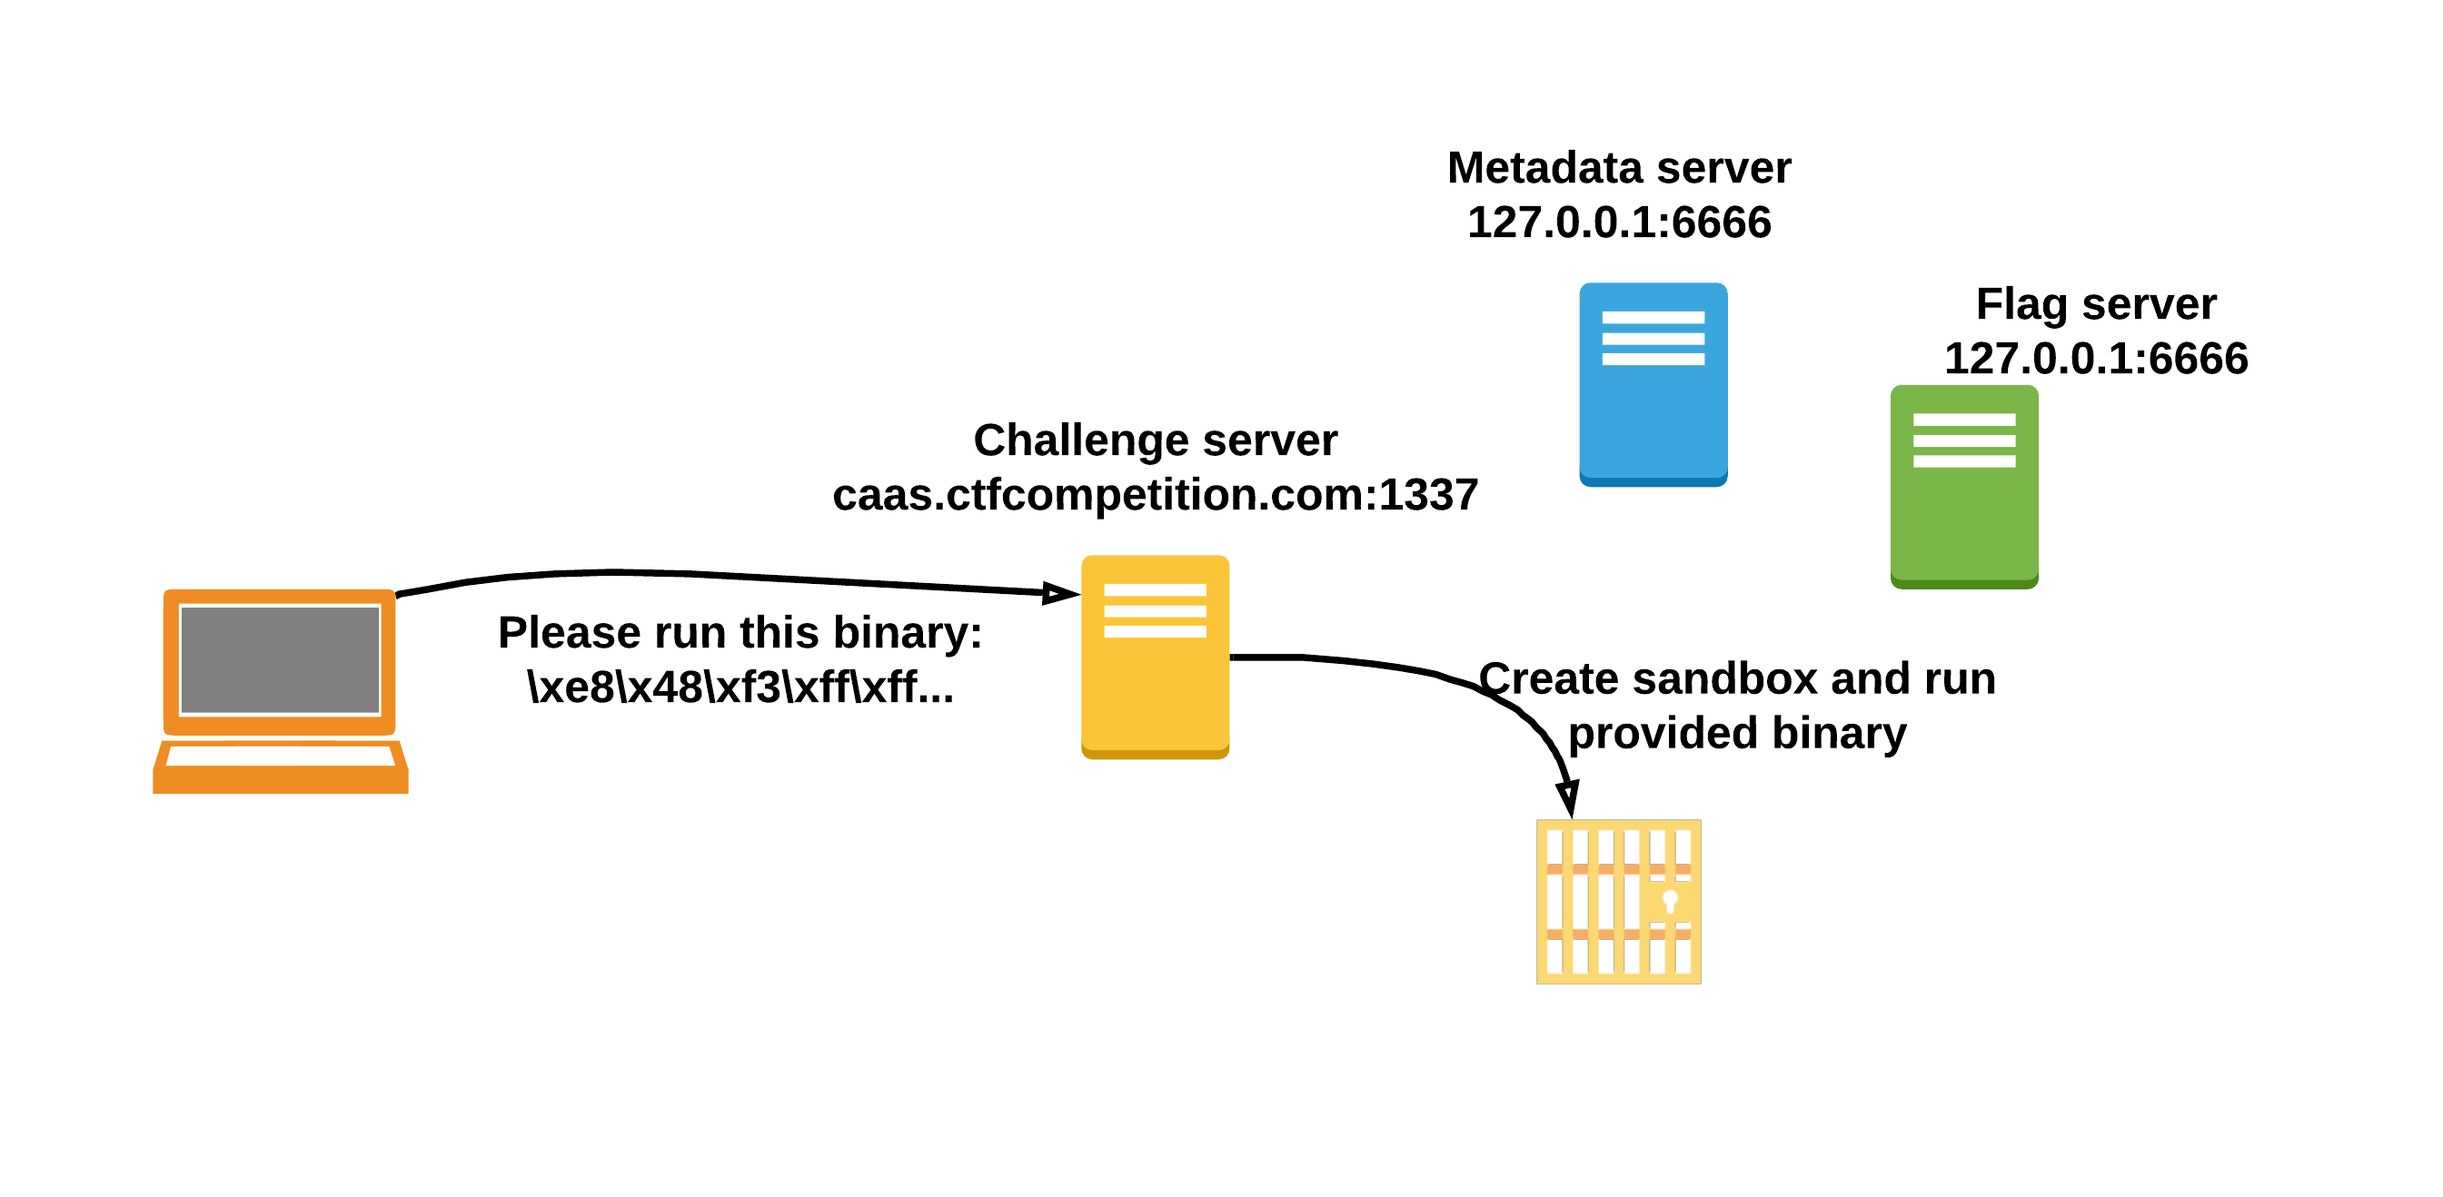
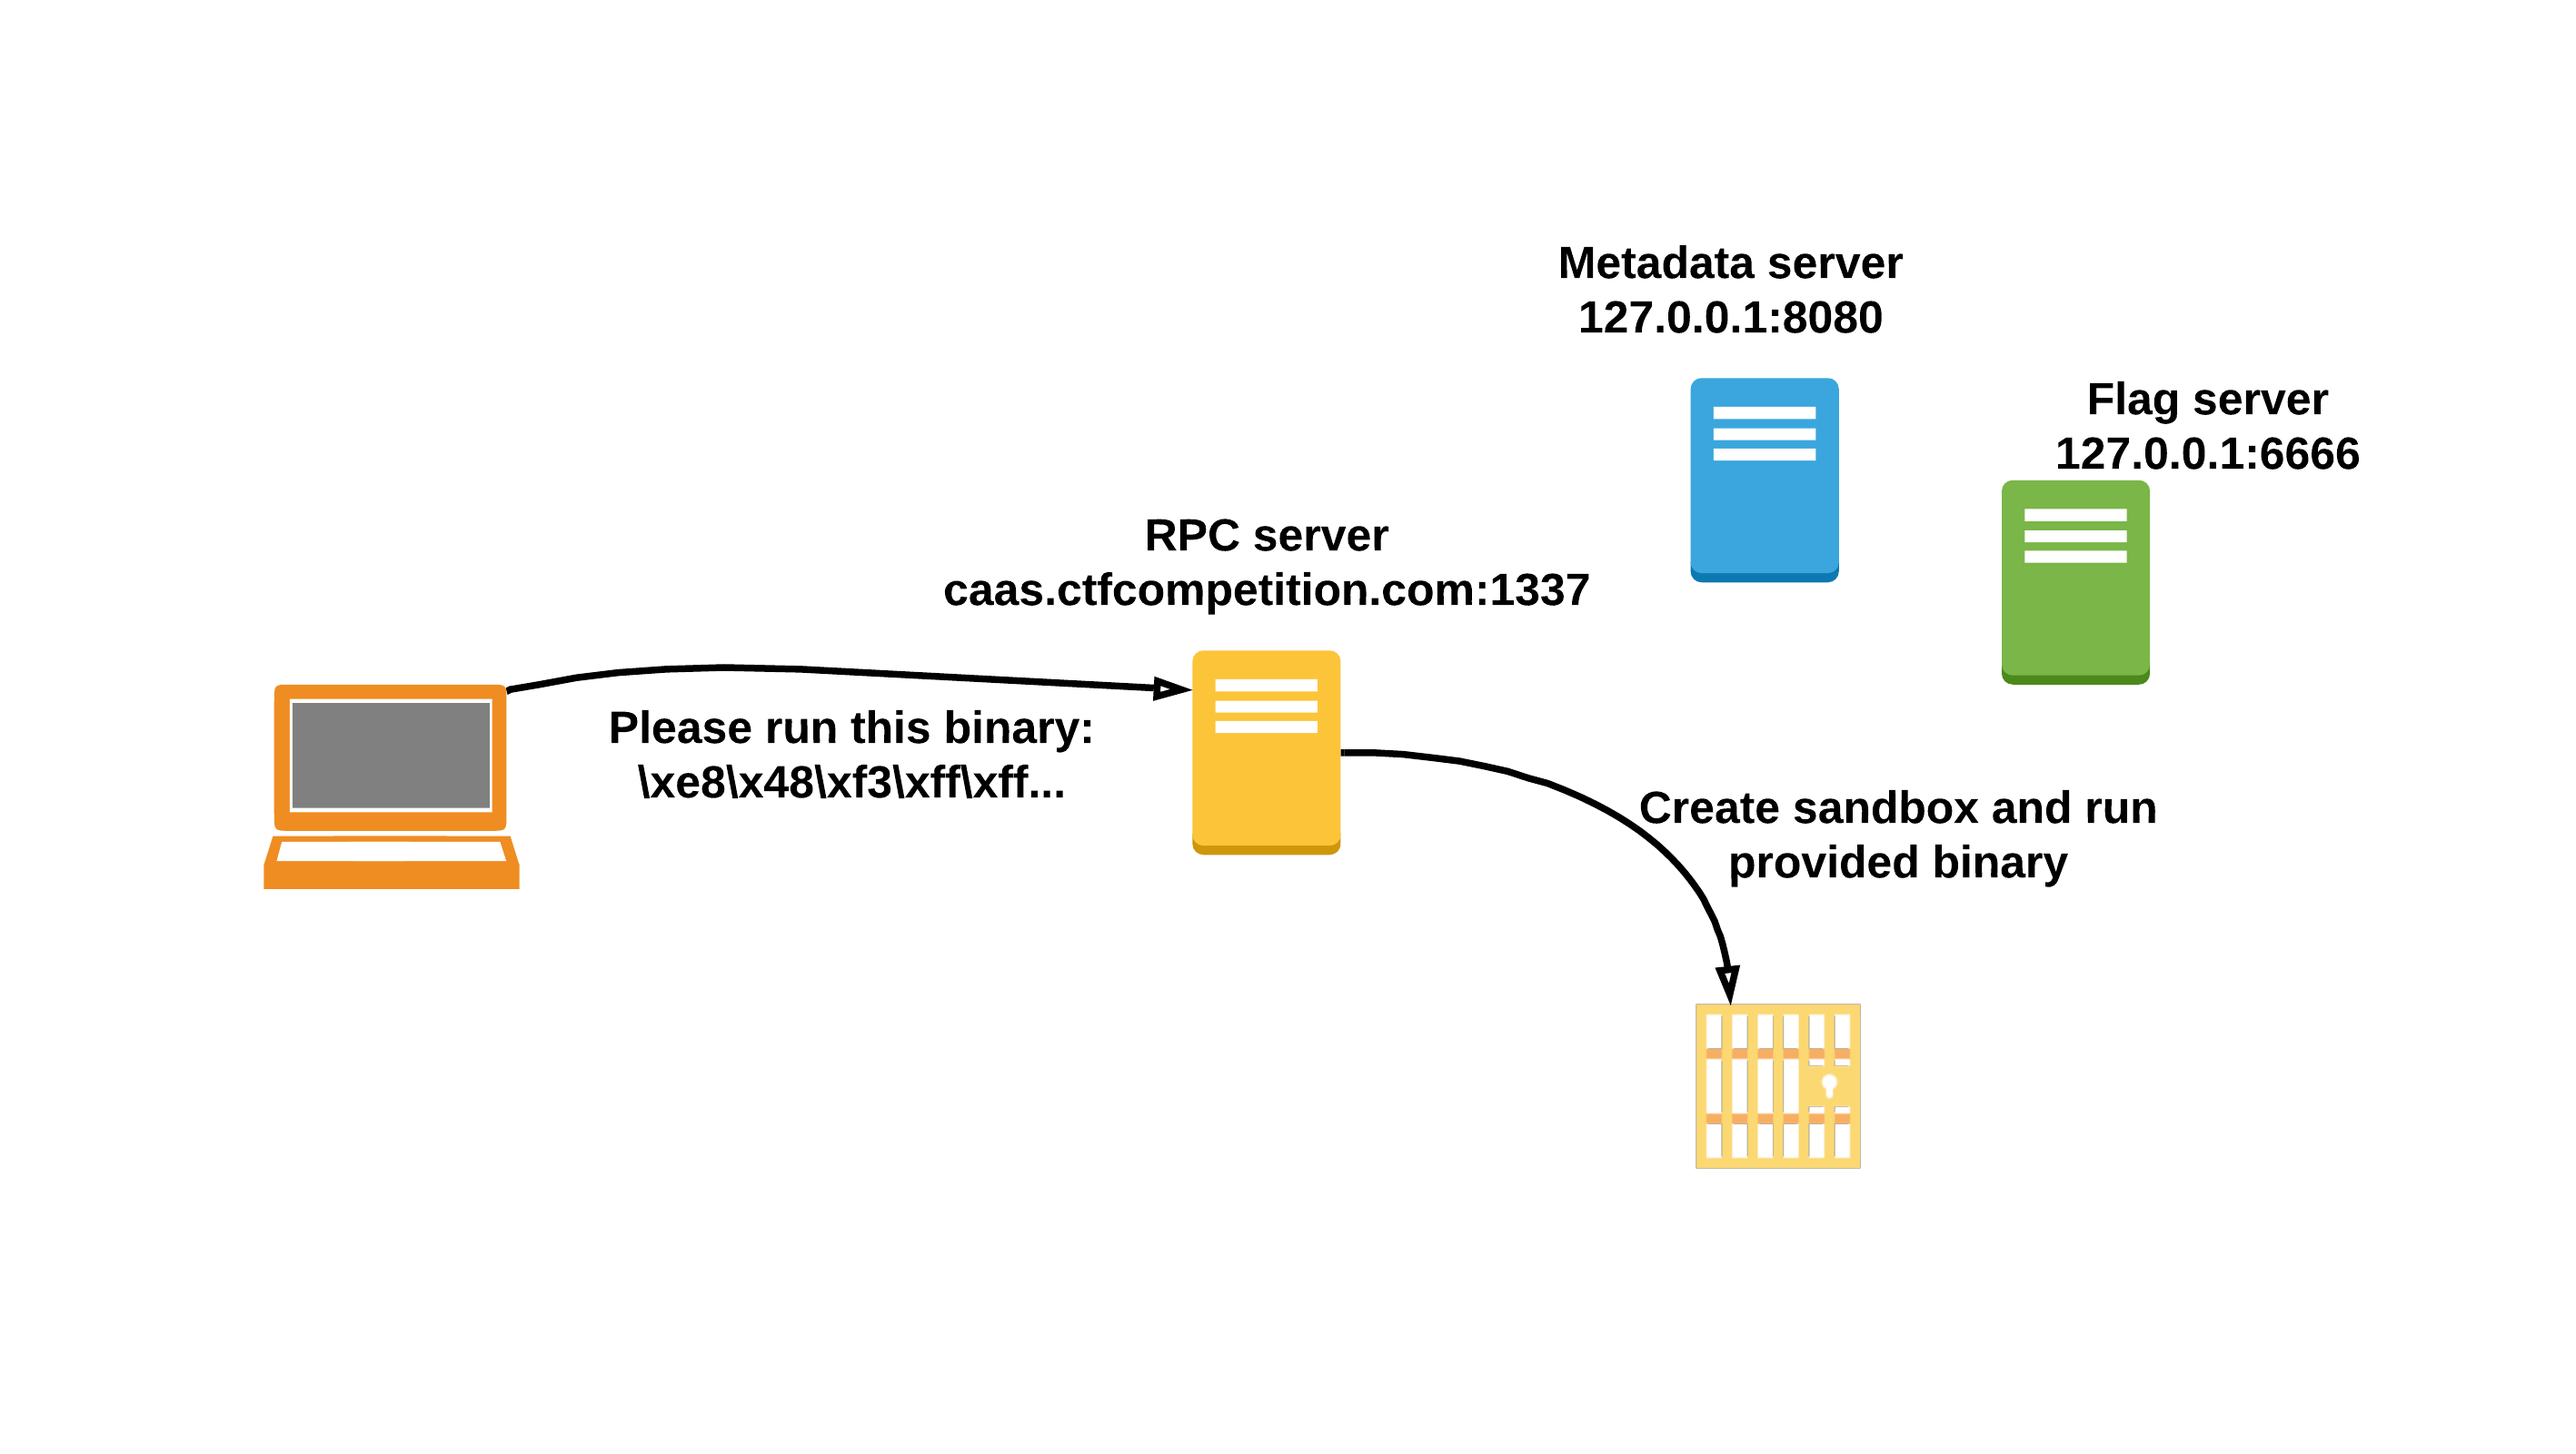
.

Changed region(s): [[0.0625, 0.1244, 0.8434, 0.8399], [0.7497, 0.2178, 0.9372, 0.4977]]

diff --git a/pwn/googlectf2019/sandbox-caas/README.md b/pwn/googlectf2019/sandbox-caas/README.md
@@ -4,6 +4,75 @@ After few hours I gave up and started looking for some other implementations and
 
 
 ## Infrastructure
-As a user we can connect to the challenge server. It will ask us to provide the binary which we want to execute. This binary will be run in a custom sandbox based on linux namespaces, rlimit and seccomp.
+As a user we can connect to the challenge server. It will ask us to provide the binary which we want to execute (shellcode). This binary will be run in a custom sandbox based on linux namespaces, rlimit and seccomp.
 
 ![](img/infra.png)
+
+Moreover we know that on same machine there are two other services running. One listening on localhost:8080 being a metadata server and one listening on localhost:6666 being a flag server.
+
+## Flag Server
+There is nothing tricky about flag server. When client connects to it, it will just send him the flag. So the goal is quite obvious – we need to connect to the Flag Server.
+
+## Metadata Server
+It seems that metadata server havn't been yet finished. When connecting to it, it just responds with 'Not implemented' message.
+
+## RPC Server
+RPC Server is a bridge between the sandboxed process and the rest of the world. They communicate using a pipe (descriptor 100). The sandboxed process can for example ask RPC Server to connect to Metadata Server for him.
+
+## Sandbox
+You might wonder, why sandboxed process needs to ask RPC Server to connect him with Metadata Server. Well, the sandbox is quite restrictive and sandboxed process is placed in new NET_NAMESPACE, meaning he won't see any network interfaces of the host.
+
+Sandbox details:
+i) The process is placed in new new, ipc, cgroups, user, uts, pid, mount namespaces.
+ii) The process has no capabilities.
+iii) The pivot_root was invoked before passing control to our shellcode and so, the process root is in an empty tmpfs folder /tmp/.challenge/. The old root was umounted.
+iv) Seccomp policy allows only: read, write, close, munmap, sched_yield, dup, dup2, nanosleep, connect, accept, recvmsg, bind, exit, exit_group, clone, mmap syscalls.
+iv) The proces memory maps have been unmaped, leaving only the stack and user shellcode.
+
+## API
+Reading through sandbox details it is quite obvious that it is rather decent sandbox and perhaps the weak point is this RPC Server. Let's check it closer.
+The RPC Server works in an infinite loop:
+
+```c
+void Server(pid_t pid, int comms_fd) {
+  Request req;
+  while (true) {
+    Response res;
+    int fd_to_send = -1;
+
+    if (TEMP_FAILURE_RETRY(read(comms_fd, &req, sizeof(req))) != sizeof(req)) {
+      return;
+    }
+
+    // Validate request parameters.
+    if (!ValidateRequest(pid, req)) {
+      fprintf(stderr, "Request validation failed.\n");
+      return;
+    }
+
+    // Parameters good, actually execute the request.
+    if (!ExecuteRequest(pid, req, &res, &fd_to_send)) {
+      return;
+    }
+
+    if (TEMP_FAILURE_RETRY(write(comms_fd, &res, sizeof(res))) != sizeof(res)) {
+      return;
+    }
+
+    if (fd_to_send != -1) {
+      if (!SendFD(comms_fd, fd_to_send)) {
+        return;
+      }
+      close(fd_to_send);
+    }
+  }
+}
+```
+
+It reads a request from a sandboxed process, then it checks if the request is valid. If the request is valid, it executes it. Finally it sends a reply to the process and when needed also a file descriptor. 
+
+There are two types of requests that a sandboxed process can send, but only one – ConnectToMetadataServerRequest is interesting (the other one – GetEnvironmentDataRequest is just not yet implemented). 
+
+So let's check out ConnectToMetadataServerRequest.
+
+![](img/conn.png)
